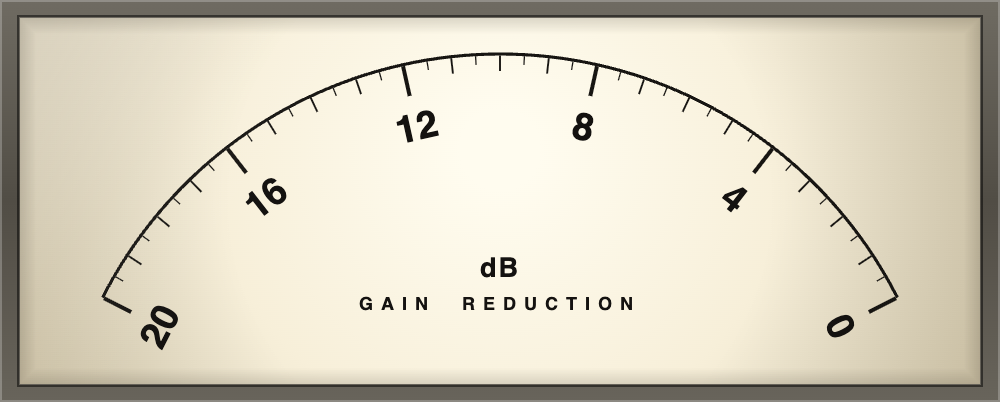
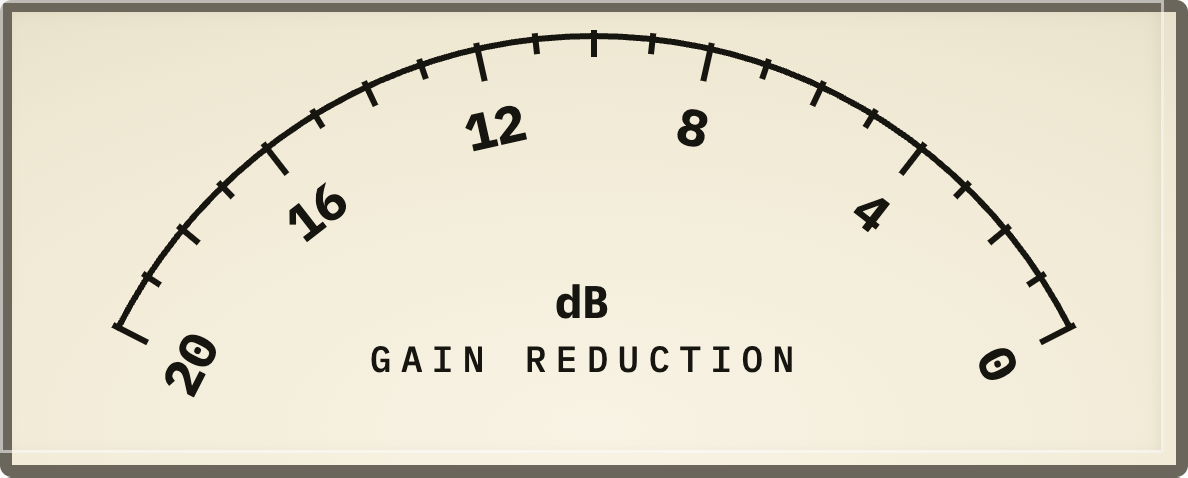
Merge design bundle 2
Delivered artwork, fonts and icons for the harmonisation round, merged with
rsync -a into design/ rather than extracted over it — a wholesale replace
once deleted 19 tracked font files and broke a build outright.

Four checks, all passing. The bundle is here (check 0, new — a delivery
reported verified last week was on neither machine, and none of the other
arms can tell "cut and staged" from "nothing arrived"). Every design/ path
CMake names still stats: 89 across the six, none missing. Every delivered
file lands somewhere or is accounted for. And the delivered SET is not a
subset of what it replaced — nothing was lost in any casting.

The casting's own GUI-SPEC and RECUT are updated with it.

diff --git a/design/RECUT.md b/design/RECUT.md
@@ -8,12 +8,23 @@ travels without it — `../MANIFEST.md` has the same rows for the whole suite.
 
 | File | Drawn at 1× | Delivered | Ratio | **Target (3×)** |
 |---|---|---|---|---|
-| `assets/meter-face.png` | 396 × 159.2 | **1000 × 402** | 2.525× | **1188 × 478** |
-| `assets/meter-needle.png` | 23.8 × 202.3 | **60 × 510** | 2.522× | **71 × 607** |
+| `assets/meter-face.png` — **REDRAWN, this bundle** | 396 × 159.2 | **1188 × 478** | 3× | **1188 × 478** |
+| `assets/meter-needle.png` — **REDRAWN, this bundle** | 23.8 × 202.3 | **71 × 607** | 3× | **71 × 607** |
 
-The needle’s 1× height is **202.3**, not 197.6. The panel’s `top: −197.6px` is where the pivot
+**Redrawn, not traced.** There was no source to cut from: the panel places the delivered bitmaps,
+so the only "original" was a 2.52× image made before this round's ink pass. Both pieces are now
+drawn in `Artwork Cutting Sheet.dc.html` at 1× and cut from it at 3× — the scale from the
+movement rather than from the old image: pivot (198, 198), 0 dB at +63°, 20 dB at −63°, majors
+every 4 dB with numerals rotated to their tick, mediums every 2, minors every 1, ink `#16150f`.
+That sheet is the source of record for the next re-cut.
+
+The needle's 1× height is **202.3**, not 197.6. The panel's `top: −197.6px` is where the pivot
 sits, not how tall the image is — an earlier target of 71.4 × 593 came from reading the one as the
-other. The face’s 478 is 3 × 159.2 = 477.6 rounded **up**, so the face never falls short of its
+other. The face's 478 is 3 × 159.2 = 477.6 rounded **up**, so the face never falls short of its
 well.
+
+**Both `<img>` tags now pin height as well as width** (`396 × 159.2`, `23.8 × 202.3`). Width alone
+let the new files' own rounding — 1188 / 478 and 71 / 607 — set the height, which moved the
+needle's pivot by about a pixel. The placement figures in `GUI-SPEC.md` §4 are unchanged.
 
 Nothing else in this casting is baked. GUI-SPEC §4 states the pivot and travel.

diff --git a/design/GUI-SPEC.md b/design/GUI-SPEC.md
@@ -114,8 +114,8 @@ The casting's signature display and its only analogue movement.
 | Figure | Value |
 |---|---|
 | Well | 396 × 159 at (60, 176), radius 4, `0 4px 12px rgba(35,30,22,.45)`, `0 1px 0 rgba(255,255,255,.34)` |
-| Face | `assets/elmer/meter-face.png` — **delivered 1000 × 402**, drawn at 396 × 159.2 (**2.525×**) |
-| Needle | `assets/elmer/meter-needle.png` — **delivered 60 × 510**, drawn at 23.8 × 202.3 (**2.522×**), pivot at (198, 198) — **0.5 × face width below the top edge**. The element's `top: −197.6px` is a placement offset, not the image height |
+| Face | `assets/elmer/meter-face.png` — **delivered 1188 × 478**, drawn at 396 × 159.2 (**3×**, redrawn in the second bundle) |
+| Needle | `assets/elmer/meter-needle.png` — **delivered 71 × 607**, drawn at 23.8 × 202.3 (**3×**, redrawn in the second bundle), pivot at (198, 198) — **0.5 × face width below the top edge**. The element's `top: −197.6px` is a placement offset, not the image height |
 | Travel | **+63° at 0 dB to −63° at 20 dB**, `needleDeg = 63 − (gr / 20) × 126` |
 | Glass | `linear-gradient(118deg, rgba(255,255,255,.10) 0 22%, transparent 40%)` |
 | Caption | `GAIN REDUCTION METER`, IBM Plex Mono 500 11 / 14 / .14 em, `#0e0d08` |
